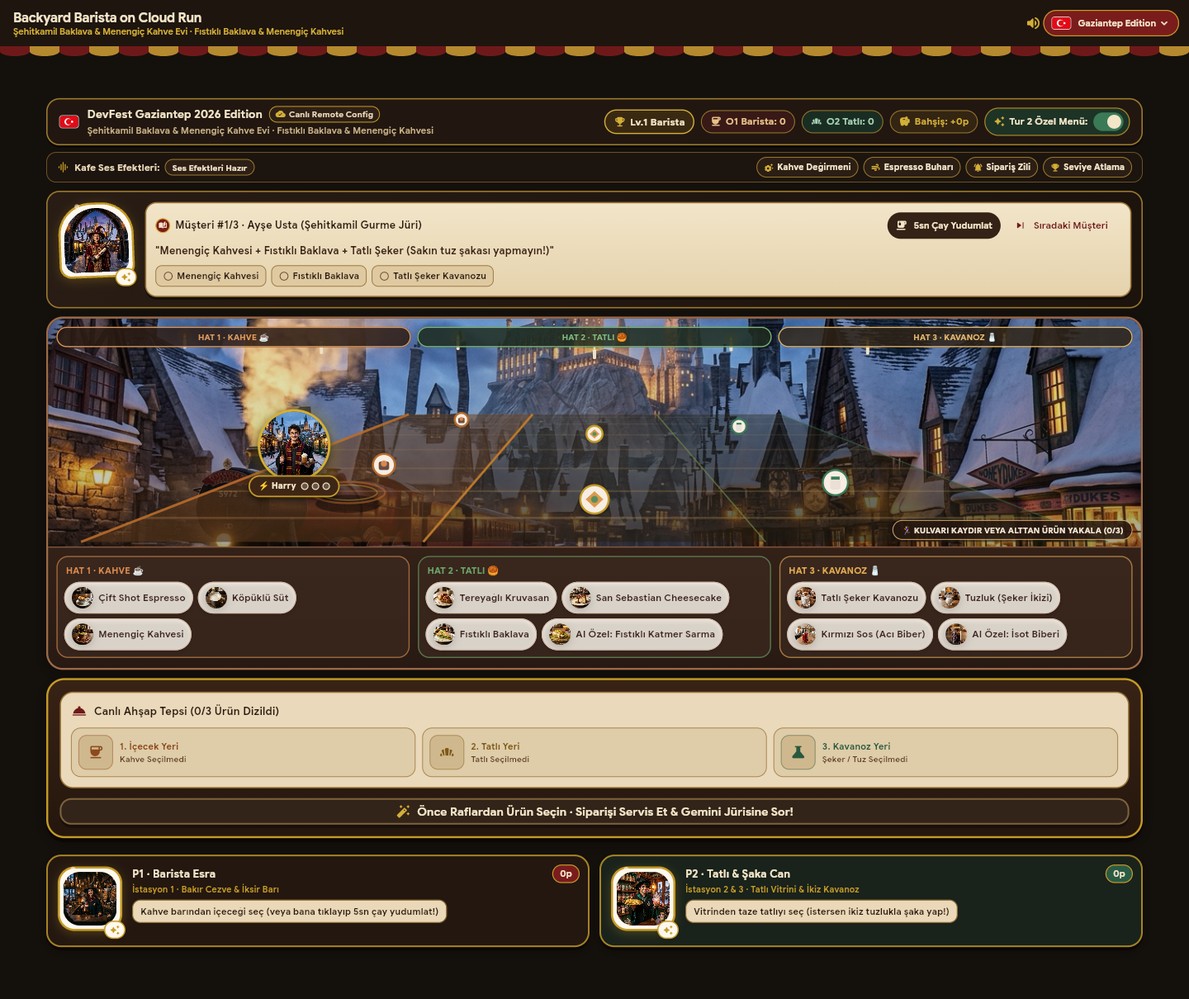
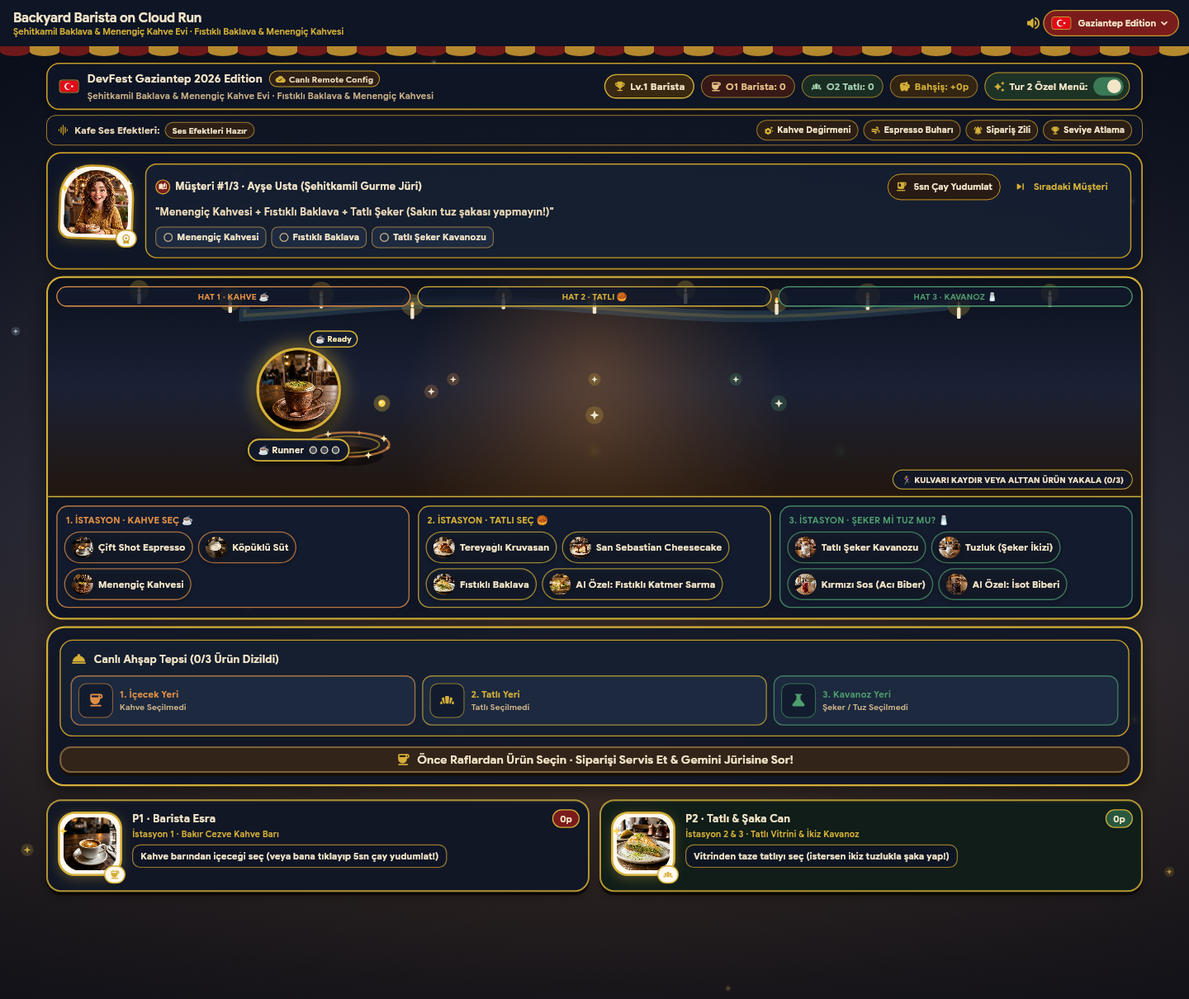
docs: fix stale counts, add the Berlin cue card and the Vibe Lounge note
CI step names carried test counts from October. README, landing page and
poster now say that Vibe Lounge participants follow Google's own guide.
step-3 names the real AI Studio flow (Publish) and who the Starter Tier
excludes, with sources. The runbook gets the real Berlin slot, the
mirror-has-no-key note, the full Wi-Fi-off command with the local judge,
and the 20:40 flight. The article shows the real Dockerfile. The README
screenshot shows the new neutral stage. docs/berlin-45-en.md is the
English 45-minute running order.

diff --git a/docs/visuals/src/arch.html b/docs/visuals/src/arch.html
@@ -17,7 +17,7 @@ body{margin:0;width:1600px;height:760px;background:#0E1824;font-family:GSF;color
 <div class="s" style="border-color:#FDD663"><b style="color:#FDD663">JSON · ~120 OUT</b><div>CafeReview</div><p>6 required schema fields</p></div><div class="a">→</div>
 <div class="s" style="border-color:#F28B82"><b style="color:#F28B82">UI REACTS</b><div>Face, stars, roast</div><p>or offline fallback in 250 ms</p></div>
 </div>
-<div class="layer" style="border-color:#8AB4F8"><div class="n"><small style="color:#8AB4F8">LAYER 1</small><div>Presentation</div></div><div class="chips"><span>Stack · AnimatedScale · CustomPaint</span><span>20 PNGs</span><span>5 Lottie</span><span>10 WAV</span><span>&lt;620px responsive</span></div><div class="o" style="color:#8AB4F8">0 game engines</div></div>
+<div class="layer" style="border-color:#8AB4F8"><div class="n"><small style="color:#8AB4F8">LAYER 1</small><div>Presentation</div></div><div class="chips"><span>Stack · AnimatedScale · CustomPaint</span><span>14 PNGs</span><span>5 Lottie</span><span>10 WAV</span><span>&lt;620px responsive</span></div><div class="o" style="color:#8AB4F8">0 game engines</div></div>
 <div class="layer" style="border-color:#FDD663"><div class="n"><small style="color:#FDD663">LAYER 2</small><div>Config</div></div><div class="chips"><span>1 · in-app override</span><span>2 · Remote Config active_city_id</span><span>3 · city_editions.json</span></div><div class="o" style="color:#FDD663">4 cities, 0 rebuilds</div></div>
 <div class="layer" style="border-color:#81C995"><div class="n"><small style="color:#81C995">LAYER 3</small><div>AI &amp; guardrails</div></div><div class="chips"><span>gemini-3.5-flash-lite</span><span>responseSchema</span><span>8 s timeout</span><span>mock_responses.json</span></div><div class="o" style="color:#81C995">≈ 270 tokens/order</div></div>
 <div class="layer" style="border-color:#F28B82"><div class="n"><small style="color:#F28B82">LAYER 4</small><div>Serverless cloud</div></div><div class="chips"><span>multi-stage Dockerfile</span><span>nginx:alpine :8080</span><span>Cloud Run *.run.app</span><span>GitHub</span></div><div class="o" style="color:#F28B82">0 server state</div></div>

diff --git a/docs/vibe-lounge-poster.html b/docs/vibe-lounge-poster.html
@@ -272,7 +272,7 @@
           <div>
             <div style="font-size:10.5px;color:#81C995;font-weight:800;text-transform:uppercase;">2. Starter Repo &amp; Copy-Paste Prompts</div>
             <div style="font-size:12.5px;font-weight:800;margin:3px 0;color:#F2F6FC;word-break:break-all;">github.com/esrakadah/devfest-2026-backyard-barista-cloudrun</div>
-            <div style="font-size:11px;color:#9EB1C9;">20 Studio PNGs · 10 Web Audio SFX · <code>prompts/step-1..3</code></div>
+            <div style="font-size:11px;color:#9EB1C9;">14 Studio PNGs · 10 Web Audio SFX · <code>prompts/step-1..3</code></div>
           </div>
         </div>
       </div>
@@ -283,7 +283,7 @@
       </div>
 
       <div class="arch-footer">
-        <strong>What We Built (4-Layer Production Cloud Architecture):</strong> Layer 1: Pure Flutter / HTML UI + 20 Studio PNGs, 5 Lottie &amp; 10 Web Audio API SFX · Layer 2: 3-Layer City Config (UI Override &gt; Firebase Remote Config <code>active_city_id</code> &gt; Local JSON) · Layer 3: Gemini <code>3.5-flash-lite</code> Structured JSON (<code>$0.0468 / 1k orders</code>) + <code>0.09 ms</code> Offline Fallback · Layer 4: Stateless Container on Google Cloud Run (<code>PORT=8080</code>) + GitHub
+        <strong>What We Built (4-Layer Production Cloud Architecture):</strong> Layer 1: Pure Flutter / HTML UI + 14 Studio PNGs, 5 Lottie &amp; 10 Web Audio API SFX · Layer 2: 3-Layer City Config (UI Override &gt; Firebase Remote Config <code>active_city_id</code> &gt; Local JSON) · Layer 3: Gemini <code>3.5-flash-lite</code> Structured JSON (<code>$0.0468 / 1k orders</code>) + <code>0.09 ms</code> Offline Fallback · Layer 4: Stateless Container on Google Cloud Run (<code>PORT=8080</code>) + GitHub
       </div>
     </div>
   </article>

diff --git a/slides/lib/slides/s_hybrid_asset_pipeline_slide.dart b/slides/lib/slides/s_hybrid_asset_pipeline_slide.dart
@@ -11,7 +11,7 @@ class HybridAssetPipelineSlide extends FlutterDeckSlideWidget {
             route: '/hybrid-asset-pipeline',
             title: '12. Hybrid Asset Pipeline: 14 Studio PNGs + On-the-Fly AI SVGs',
             speakerNotes:
-                'BEAT  [22:30 - 25:00] Hibrit Görsel Boru Hattı: 20 Hazır Stüdyo PNG + Yolda Üretilen AI Vektörleri.\n'
+                'BEAT  [22:30 - 25:00] Hibrit Görsel Boru Hattı: 14 Hazır Stüdyo PNG + Yolda Üretilen AI Vektörleri.\n'
                 'SAY   "Bir oyun atölyesinde en çok vakit kaybettiren şey görsel bulmak ve yüklemektir. Biz bunu hibrit bir boru hattıyla çözdük: 3 içecek, 3 tatlı, 3 şaka malzemesi ve 3 müşteri tepkisinden oluşan toplam 12 adet yüksek çözünürlüklü 1. Tur PNG görselini, 2 adet 2. Tur özel PNG görselini ve 6 adet 3D karakter portresini doğrudan GitHub repomuzun içinde hazır veriyoruz. Ardından 2. Turda herkes kendi özel imza tatlısını ve kendi şaka malzemesini Google AI Studio veya Antigravity ile anında CustomPaint vektör kodu olarak üretiyor. Sıfır dosya yükleme hatası, anında görsel sonuç!"\n'
                 'HOLD  Soldaki hazır PNG vitrinini ve sağdaki yolda üretilen CustomPaint vektör akışını göster. [Fact (flutter_client/assets/): 14 PNGs in assets/base/ (12 Round-1 + 2 Round-2), 5 Lottie JSONs in assets/animations/, 10 audio WAVs + Web Audio API synth in assets/audio/].\n'
                 'NEXT  "Şimdi bilgisayarlarımızı ve telefonlarımızı açıyoruz: 3 turluk canlı inşa maratonumuz başlıyor!"',

diff --git a/README.md b/README.md
@@ -5,9 +5,11 @@
 [![Gemini 3.5 Flash-Lite](https://img.shields.io/badge/Gemini-3.5_Flash--Lite-8E75B2?logo=googlegemini&logoColor=white)](https://ai.google.dev/)
 [![License: MIT](https://img.shields.io/badge/License-MIT-34A853.svg)](LICENSE)
 
-**DevFest 2026 Hands-On Workshop & Vibe Lounge Starter Repository**
+**DevFest 2026 Hands-On Workshop Starter Repository**
+
+> **Vibe Lounge note:** this repo is Esra's talk and workshop demo. In the DevFest Vibe Lounge you follow Google's official Backyard Barista guide instead (a coffee companion app); you do not need this repo there.
 - **Author:** Esra Kadah (Tech Lead, Senior Flutter & AI Engineer at Antigua Mobile Berlin · Flutter & Dart GDE)
-- **Live Cloud Run Reference App (`europe-west3` · 3D Characters + Lottie + 10 Web Audio SFX):** [https://backyard-barista-389486729482.europe-west3.run.app](https://backyard-barista-389486729482.europe-west3.run.app) (`devfest-backyard-barista-2026`)
+- **Live Cloud Run Reference App (`europe-west3` · Flame stage + Lottie + 10 Web Audio SFX):** [https://backyard-barista-389486729482.europe-west3.run.app](https://backyard-barista-389486729482.europe-west3.run.app) (`devfest-backyard-barista-2026`)
 - **Live Cloud Run Mirror (`europe-west1`):** [https://backyard-barista-870328613866.europe-west1.run.app](https://backyard-barista-870328613866.europe-west1.run.app) (`soundstage-dea29`)
 - **Technical Deep-Dive Article (Medium / `esra.tech`):** [`docs/articles/backyard-barista-cloud-run-medium.md`](docs/articles/backyard-barista-cloud-run-medium.md)
 - **City Editions Included:**
@@ -32,9 +34,9 @@ Right next to the **Sugar (`Şeker`)** jar sits a deceptive **Salt (`Tuz`)** sha
 
 ### Lane A: Zero-Install Browser Path (Google AI Studio Build Mode -> Cloud Run + GitHub)
 1. Open [Google AI Studio](https://aistudio.google.com) -> **Build** mode.
-2. Copy and paste [`prompts/step-1-base-cafe.md`](prompts/step-1-base-cafe.md) to generate the 2-player Cafe Counter with our 12 base menu items and the 4-City Edition switcher (`Berlin`, `Gaziantep`, `Adana`, `Istanbul`).
+2. Copy and paste [`prompts/step-1-base-cafe.md`](prompts/step-1-base-cafe.md) to generate the 2-player Cafe Counter with our 9 base menu items (3 drinks, 3 pastries, 3 jars), 3 customer faces and the 4-City Edition switcher (`Berlin`, `Gaziantep`, `Adana`, `Istanbul`).
 3. Copy and paste [`prompts/step-2-custom-dish.md`](prompts/step-2-custom-dish.md) to generate your own **Custom Signature Dish SVG** and **Custom Prank Ingredient SVG** on the fly, wired to the Gemini JSON customer judge.
-4. Follow [`prompts/step-3-deploy.md`](prompts/step-3-deploy.md) to click **Deploy to Cloud Run** (`.run.app`, no credit card required on AI Studio Starter Tier) and **Sync to GitHub**.
+4. Follow [`prompts/step-3-deploy.md`](prompts/step-3-deploy.md) to click **Publish** (`.run.app`, no credit card required on AI Studio Starter Tier) and **Sync to GitHub**.
 
 ### Lane B: Flutter + Gemini REST API (`package:http`) + Google Antigravity IDE -> Cloud Run + GitHub
 Before you start:
@@ -118,8 +120,7 @@ devfest-2026-backyard-barista-cloudrun/
     ├── assets/
     │   ├── animations/        # 5 ready-made Lottie JSON animations (coffee_steam_loop, barista_brewing_pulse, sweet_celebration_burst, salty_spicy_explosion, tea_sip_steam_loop)
     │   ├── audio/             # 10 cafe sound effects + Web Audio API synth (coffee_grinder, espresso_steam, serve_bell, level_up, tap_pop, stealth_wink, tea_sip, sweet_fanfare, salty_buzzer, next_chime)
-    │   ├── base/              # 20 studio 9D PNG cafe & 3D character assets (12 Round-1 base + 2 Round-2 custom + 6 3D characters, 512x512)
-    │   │   ├── characters/    # barista_p1.png, pastry_chef_p2.png, customer_ayse_usta.png, customer_mustafa.png, customer_lukas.png, customer_deniz.png
+    │   ├── base/              # 14 studio PNG cafe assets (12 Round-1 base + 2 Round-2 custom, 512x512)
     │   │   ├── drinks/        # espresso.png, milk.png, menengic_coffee.png
     │   │   ├── foods/         # croissant.png, san_sebastian.png, baklava.png, katmer_roll.png
     │   │   ├── toppings_pranks/ # sugar_jar.png, salt_shaker.png, chili_sauce.png, isot_pepper.png
@@ -155,10 +156,10 @@ devfest-2026-backyard-barista-cloudrun/
 
 ## Full Production Architecture ("En Son Mimaride Ne Yaptık?")
 
-1. **Layer 1 (Presentation & Hybrid Assets):** Pure Flutter Declarative Widgets (`Stack`, `AnimatedScale`, `AnimatedSwitcher`, `CustomPaint`) combining 20 pre-generated PNGs in `assets/base/` (`12` Round-1 base PNGs + `2` Round-2 custom PNGs + `6` 3D character portraits) with on-the-fly Antigravity/Gemini-generated `CustomVectorIngredientGraphic` vector artwork (`custom_svg_items.dart`), `5` Lottie JSON animations, and `10` synthesized WAV + Web Audio API audio cues.
+1. **Layer 1 (Presentation & Hybrid Assets):** Pure Flutter Declarative Widgets (`Stack`, `AnimatedScale`, `AnimatedSwitcher`, `CustomPaint`) combining 14 pre-generated PNGs in `assets/base/` (`12` Round-1 base PNGs + `2` Round-2 custom PNGs) with on-the-fly Antigravity/Gemini-generated `CustomVectorIngredientGraphic` vector artwork (`custom_svg_items.dart`), `5` Lottie JSON animations, and `10` synthesized WAV + Web Audio API audio cues.
 2. **Layer 2 (3-Layer Multi-City Configuration in `CityEditionController`):**
    - **Priority 1:** In-App Settings Switcher Override (`_manualOverrideCityId` via `city_settings_drawer.dart`)
    - **Priority 2:** Firebase Remote Config template / `--dart-define=DEFAULT_CITY` (`_remoteConfigCityId` via `remote_config_template.json`)
    - **Priority 3:** Bundled local fallback (`_fallbackCityId` from `assets/editions/city_editions.json`)
-3. **Layer 3 (AI & Guardrails):** Single-shot structured JSON output (`CafeReview`) evaluated by `gemini-3.5-flash-lite` over REST `generateContent` (`package:http` for zero-setup workshops; upgrade to `firebase_ai` + Firebase App Check in production) with an `8,000 ms` live timeout and a `250 ms` deterministic offline fallback (`mock_responses.json`).
+3. **Layer 3 (AI & Guardrails):** Single-shot structured JSON output (`CafeReview`) evaluated by `gemini-3.5-flash-lite` over REST `generateContent` (`package:http` for zero-setup workshops; upgrade to `firebase_ai` + Firebase App Check in production) with an `8,000 ms` live timeout, then an optional local Gemma 4 (`15 s` timeout, stage laptop only), then the bundled `mock_responses.json` (`250 ms` load timeout). Every model verdict must match the salt and chili flags decided in Dart, or the bundled verdict answers.
 4. **Layer 4 (Serverless Cloud & Source Control):** Stateless `nginx:alpine` container (`Dockerfile`, lines 1-25) deployed via `gcloud run deploy backyard-barista --source .` to **Google Cloud Run (`*.run.app`)** and synced to **GitHub**.

diff --git a/docs/stage-runbook.md b/docs/stage-runbook.md
@@ -4,10 +4,12 @@ Bu doküman sahnedeki teknik delivery'nin tek kontrol listesidir: ne zaman ne ko
 
 | Etkinlik | Tarih | Dil | Format |
 |---|---|---|---|
-| DevFest Berlin | 14 Kasım 2026 | EN | 2 x 45 dk Vibe Lounge |
+| DevFest Berlin | 14 Kasım 2026 | EN | 10:00 Room 2, 45 dk konuşma ([İngilizce akış kartı](berlin-45-en.md)), sonra 11:00-15:00 Vibe Lounge (katılımcılar Google'ın resmi Barista rehberini izler) |
 | DevFest Gaziantep | 15 Kasım 2026 | TR | 80 dk atölye veya 2 x 45 dk Vibe Lounge |
 | DevFest Adana | 11 Aralık 2026 | TR | 30+10 dk ana salon |
 | DevFest İstanbul | 19 Aralık 2026 | TR | 30+10 dk ana salon |
+
+Berlin günü akşamı Gaziantep uçuşu 20:40: Vibe Lounge 15:00'te biter, havalimanı için zamanında çık. Laptopu, USB'deki PDF yedeğini ve NFC etiketlerini el bagajına koy.
 
 ---
 
@@ -42,6 +44,7 @@ Bu doküman sahnedeki teknik delivery'nin tek kontrol listesidir: ne zaman ne ko
    curl -s -o /dev/null -w '%{http_code}\n' https://backyard-barista-389486729482.europe-west3.run.app
    curl -s -o /dev/null -w '%{http_code}\n' https://backyard-barista-870328613866.europe-west1.run.app
    ```
+   `europe-west1` aynasında Gemini anahtarı yok: `200` döner ama kararlar paketlenmiş cevaplardan gelir. Gemini'ı sahnede sadece `europe-west3` üzerinde göster.
 6. **Yerel Gemma jürisi (sadece Ollama'lı laptopta):** model indirilmiş olmalı (`ollama list` içinde `gemma4:12b-it-qat`, 7.2 GB). Yoksa evde, hızlı ağda `ollama pull gemma4:12b-it-qat`; salon Wi-Fi'ında indirme. Sonra bir prova turu:
    ```bash
    cd flutter_client
@@ -53,7 +56,7 @@ Bu doküman sahnedeki teknik delivery'nin tek kontrol listesidir: ne zaman ne ko
 ## T-2 saat: Salon Kurulumu
 
 - Projektör çözünürlüğünü öğren. Deck 1920x1080 mantıksal kanvasta tasarlandı ve her ekrana ölçeklenir; 4:3 projektörde üst ve altta siyah bant olur, içerik kaybolmaz.
-- Sahne laptopunda: deck (`flutter run -d chrome` veya `build/web`), canlı oyun sekmesi, `ai_studio_lane_a/index.html` (49.5 KB, çevrimdışı açılır) ve PDF yedeği açık olsun.
+- Sahne laptopunda: deck (`flutter run -d chrome` veya `build/web`), canlı oyun sekmesi, `ai_studio_lane_a/index.html` (49.5 KB) ve PDF yedeği açık olsun. Lane A dosyasını reponun içinden aç: görselleri `../flutter_client/assets/` yolundan okur, tek başına kopyalanırsa görseller internetten gelir.
 - Telefon hotspot'unu hazırla; salon Wi-Fi'ına güvenme.
 - Kendi Gemini anahtarını **sadece yerel** çalıştırmada kullan. Asla `--dart-define=GEMINI_API_KEY` ile public bir web build'i Cloud Run'a deploy etme: dart-define değerleri tarayıcının indirdiği JavaScript'e gömülür.
 - Ödülleri (piksel gözlükler, Dash) sahneye koy; slayt 3'te gösterilecek.
@@ -94,7 +97,7 @@ Etkinlikten sonra varsayılana dön: `launchctl unsetenv OLLAMA_KEEP_ALIVE`, ard
 
 ## Sahnede: 5 Perdelik Akış
 
-| Perde | Slaytlar | 80 dk atölye | 45 dk Vibe Lounge | 30 dk ana salon |
+| Perde | Slaytlar | 80 dk atölye | 45 dk konuşma (Berlin, [akış kartı](berlin-45-en.md)) | 30 dk ana salon |
 |---|---|---|---|---|
 | 1 · Hook | 1-3 | 00:00-05:00 | 4 dk | 3 dk |
 | 2 · Tools | 4-6 | 05:00-11:30 | 4 dk | 4 dk |
@@ -108,13 +111,13 @@ Her slaytın sağ üstündeki hikaye şeridi salona nerede olduğumuzu gösterir
 
 | Belirti | Sahnede yapılacak | Komut veya eylem |
 |---|---|---|
-| Wi-Fi tamamen koptu | Slayt 16 (`/demo-hiccup`), "tam da bunun için tasarladık" | `flutter run -d chrome --dart-define=OFFLINE_MODE=true` |
+| Wi-Fi tamamen koptu | Slayt 16 (`/demo-hiccup`), "tam da bunun için tasarladık" | `flutter run -d chrome --dart-define=DEFAULT_CITY=gaziantep --dart-define=OFFLINE_MODE=true --dart-define=LOCAL_JUDGE_URL=http://localhost:11434/api/chat` (karar Gemma'dan, o da yoksa paketten) |
 | Yerel jüri yavaş veya `localGemma` gelmiyor | Paketlenmiş cevaplar devrede, oyun durmaz | `lsof -nP -iTCP:11434` ile Ollama'yı tutan süreci bul, `ollama ps` ile model yüklü mü bak, T-10 adım 3'ü tekrarla |
 | HTTP 429 | Slayt 9'a atıf, uygulama zaten çevrimdışı jüriye düştü | Eylem gerekmez |
 | Deck çöktü veya laptop dondu | PDF yedeğine geç | `build/slides/backyard_barista_deck.pdf` |
 | AI Studio yavaş | Lane A referans oyununu aç (`49.5 KB`, 3 yuvalı tepsi + 3 müşteri kuyruğu) | `ai_studio_lane_a/index.html` |
 | Katılımcı geride kaldı | Bir sonraki kontrol noktasına atla, eski turu bitirmeye çalışma | `prompts/step-N-*.md` veya `git checkout step-N` (veya `Tur 2 Özel Menü: ON`) |
-| Lane B deploy fatura istiyor | Bugün için Lane A deploy'una yönlendir | AI Studio'da "Deploy to Cloud Run" |
+| Lane B deploy fatura istiyor | Bugün için Lane A deploy'una yönlendir | AI Studio'da "Publish" |
 
 ## Sonrası
 

diff --git a/docs/berlin-45-en.md b/docs/berlin-45-en.md
@@ -1,0 +1,38 @@
+# Berlin cue card: 45 minutes in English
+
+DevFest Berlin, Sat 14 Nov 2026, 10:00, Room 2, SRH Berlin. The Vibe Lounge sprints follow at 11:00-15:00, where people build Google's official Backyard Barista guide, not this game. Today the game is the stage demo, nobody in the room builds along.
+
+The speaker notes in the deck stay the Turkish 80-minute Gaziantep script. Use this card for Berlin: same slides, English lines, a 45-minute clock. Stage Navigator (deck menu) jumps to any section.
+
+## Running order
+
+| Clock | Slide | Do | One English line |
+|---|---|---|---|
+| 00:00 | 1 `/title` | Intro, GDE line | "I'm Esra, Flutter and AI engineer at Antigua Mobile and a Flutter and Dart GDE. My views today, not Google's. We ship an AI cafe game to Cloud Run and talk real numbers." |
+| 02:00 | 2 `/sweet-or-salty` | Poll: hands for A, hands for B | "Which one is sugar? Hold that thought: an AI is going to judge exactly this." Answer: A sugar, B salt. |
+| 04:00 | 3 `/workshop-contract` | **Skip** | Say instead: "If you want to build your own, the Vibe Lounge opens at 11 with Google's Backyard Barista guide." |
+| 04:00 | 4 `/ai-studio-pipeline` | | "One prompt in AI Studio Build mode gives you a deployable app. Here is what actually comes out." |
+| 07:00 | 5 `/meet-antigravity` | | "Antigravity edits many files at once and draws new ingredients as vectors, no designer in the loop." |
+| 09:30 | 6 `/pure-flutter-widgets` | | "Flame runs the 60 fps stage, plain Flutter widgets run the counter. Each does what it is good at." |
+| 12:00 | 7 `/real-numbers-latency` | Point at the measured line | "Gemini answers in 1.0 to 1.8 seconds, measured on 11 November. A local Gemma 4 on this laptop takes 5 to 8.4 seconds. The 8 and 15 second limits are code, not hopes." |
+| 15:00 | 8 `/real-numbers-cost` | | "A thousand verdicts cost cents. The trap is not price, it is which model your account may call." |
+| 17:30 | 9 `/room-quota-trap` | | "Three hundred people on one key is an HTTP 429 waiting to happen. So the key sits behind a rate-limited proxy, and every failure lands on the bundled roasts." |
+| 20:00 | 10 `/multi-city-remote-config` | | "One build, four cities: Remote Config picks Berlin, Gaziantep, Adana or Istanbul, the in-app switcher wins on stage." |
+| 22:00 | 11 `/salt-sugar-mechanic` | | "The model writes the joke. Whether there is salt on the tray is decided in Dart, so a salt tray can never get five stars." |
+| 24:00 | **Live demo** in the game tab | Sweet tray, then salt tray, then Wi-Fi off and serve again | "Same tray, no Wi-Fi: the verdict now comes from the laptop. The badge under the card says which judge answered." |
+| 32:00 | 12 `/hybrid-asset-pipeline` | **First cut if late** | "Fourteen studio PNGs ship in the repo, round-two ingredients are drawn on the fly." |
+| 34:00 | 14 `/architecture-recap` | Skip 13 `/live-build-dashboard` | "Four layers: Flutter and Flame, Remote Config, the judge chain Gemini then Gemma then bundle, and a stateless Cloud Run container." |
+| 37:00 | 15 `/winner-podium-closing` | No podium in Berlin: point at the QR codes and the badge link | "If you remember one sentence: let the model write the joke, let your code keep the score." |
+| 40:00 | Q&A | Backup slide `/demo-hiccup` answers "what if the network dies" | |
+| 45:00 | End | Walk to the Vibe Lounge | |
+
+## If something breaks
+
+- Wi-Fi gone: jump to `/demo-hiccup`, run the game with `OFFLINE_MODE=true` and `LOCAL_JUDGE_URL` (full command in [`stage-runbook.md`](stage-runbook.md)). Warm Gemma first, ten minutes before 10:00.
+- Running late at 32:00: skip slide 12 and go straight to the recap.
+- Deck frozen: the PDF backup `slides/build/slides/backyard_barista_deck.pdf`.
+
+## The day around it
+
+- Mirror `europe-west1` has no Gemini key and only serves bundled roasts; demo Gemini on `europe-west3`.
+- Flight to Gaziantep is the night of the 14th, 20:40; leave the venue with time for the airport.

diff --git a/docs/challenge-landing-page.md b/docs/challenge-landing-page.md
@@ -7,6 +7,8 @@
 - **Starter GitHub Repository:** https://github.com/esrakadah/devfest-2026-backyard-barista-cloudrun
 - **Official Vibe Lounge Badge:** https://goo.gle/devfest26-vibe-lounge
 
+> **Vibe Lounge note:** this repo is Esra's talk and workshop demo. In the DevFest Vibe Lounge you follow Google's official Backyard Barista guide instead (a coffee companion app); you do not need this repo there.
+
 ---
 
 ## 🇹🇷 Türkçe Sürüm (Gaziantep 15 Kasım · Adana 11 Aralık · İstanbul 19 Aralık)
@@ -29,7 +31,7 @@ Hoş geldin! Bugün klavyeyle uzun mesajlar yazılan klasik bir sohbet botu değ
 2. **JSON Kafe Eleştirmeni (`CafeReview`):** Oyuncu 3 yuvalı ahşap tepsiyi (`1. İçecek + 2. Tatlı + 3. Kavanoz`) dizip **"Siparişi Servis Et!"** butonuna bastığında `gemini-3.5-flash-lite` seçilen malzemeleri kontrol etsin; eğer tatlı siparişe **Tuz** veya **İsot** karıştıysa `1/5 · Tuzlu Sabotaj 🧂`, eksik istasyon varsa `3/5 · Eksik Tepsi 🧩`, 3 istasyon da tatlıysa `5/5 · Tatlı Mükemmellik ✨` ve `+40` bahşiş döndürsün!
 
 #### Seviye 3: Google Cloud Run (`.run.app`) ve GitHub'da Canlıya Al! (3. Tur · 10 Dakika)
-1. [`prompts/step-3-deploy.md`](../prompts/step-3-deploy.md) adımlarını izleyerek AI Studio sağ üst köşedeki **Deploy to Cloud Run** butonuna bas (kredi kartsız Starter Tier) veya Flutter'da `gcloud run deploy backyard-barista --source .` çalıştırarak `.run.app` canlı oyun linkini oluştur.
+1. [`prompts/step-3-deploy.md`](../prompts/step-3-deploy.md) adımlarını izleyerek AI Studio sağ üst köşedeki **Publish** butonuna bas (kredi kartsız Starter Tier) veya Flutter'da `gcloud run deploy backyard-barista --source .` çalıştırarak `.run.app` canlı oyun linkini oluştur.
 2. **Sync to GitHub** ile kodu kendi GitHub hesabına gönder ve sahnede 60 saniyelik demoya katıl!
 
 ---
@@ -49,4 +51,4 @@ Hoş geldin! Bugün klavyeyle uzun mesajlar yazılan klasik bir sohbet botu değ
 2. **Level 2 (Custom AI Dish + Gemini Structured JSON Salt-vs-Sugar Judge · 15 Min):**
    - Paste [`prompts/step-2-custom-dish.md`](../prompts/step-2-custom-dish.md) to generate your own custom signature pastry and stealth prank condiment, wired to `gemini-3.5-flash-lite` structured JSON (`CafeReview`).
 3. **Level 3 (Deploy to Google Cloud Run `.run.app` & Sync to GitHub · 10 Min):**
-   - Follow [`prompts/step-3-deploy.md`](../prompts/step-3-deploy.md) to click **Deploy to Cloud Run** (no credit card required on AI Studio Starter Tier) or run `gcloud run deploy backyard-barista --source .`, then demo your live `.run.app` URL on stage!
+   - Follow [`prompts/step-3-deploy.md`](../prompts/step-3-deploy.md) to click **Publish** (no credit card required on AI Studio Starter Tier) or run `gcloud run deploy backyard-barista --source .`, then demo your live `.run.app` URL on stage!

diff --git a/docs/articles/backyard-barista-cloud-run-medium.md b/docs/articles/backyard-barista-cloud-run-medium.md
@@ -134,7 +134,7 @@ In [`flutter_client/lib/services/sound_player_web.dart`](../../flutter_client/li
 
 ## 5. Multi-Stage Cloud Run Container (`nginx:alpine` on Port 8080)
 
-To keep cold starts tiny and static asset delivery fast, [`flutter_client/Dockerfile`](../../flutter_client/Dockerfile) compiles the Flutter Web bundle with `--no-web-resources-cdn` (bundling `GoogleSans` and all 20 studio PNGs locally so no external font CDN can block rendering on slow venue Wi-Fi) and serves it from a stateless `nginx:alpine` image on port `8080`:
+To keep cold starts tiny and static asset delivery fast, [`flutter_client/Dockerfile`](../../flutter_client/Dockerfile) compiles the Flutter Web bundle with `--no-web-resources-cdn` (bundling `GoogleSans` and all 14 studio PNGs locally so no external font CDN can block rendering on slow venue Wi-Fi) and serves it from a stateless `nginx:alpine` image on port `8080`:
 
 ```dockerfile
 FROM ghcr.io/cirruslabs/flutter:stable AS build
@@ -148,11 +148,16 @@ RUN flutter pub get && \
     flutter build web --release \
       --no-web-resources-cdn \
       --dart-define=DEFAULT_CITY=${DEFAULT_CITY} \
-      --dart-define=GEMINI_MODEL=${GEMINI_MODEL}
+      --dart-define=GEMINI_MODEL=${GEMINI_MODEL} \
+      --dart-define=GEMINI_PROXY_PATH=/api/gemini/generate
 
 FROM nginx:alpine
+ARG GEMINI_MODEL=gemini-3.5-flash-lite
+ENV GEMINI_MODEL=${GEMINI_MODEL}
+ENV GEMINI_RATE_LIMIT=10r/s
 COPY --from=build /app/build/web /usr/share/nginx/html
-RUN printf 'server {\n  listen 8080;\n  server_name _;\n  root /usr/share/nginx/html;\n  index index.html;\n  location / {\n    try_files $uri $uri/ /index.html;\n  }\n}\n' > /etc/nginx/conf.d/default.conf
+COPY nginx/default.conf.template /etc/nginx/templates/default.conf.template
+COPY nginx/15-gemini-key.envsh /docker-entrypoint.d/15-gemini-key.envsh
 EXPOSE 8080
 CMD ["nginx", "-g", "daemon off;"]
 ```

diff --git a/prompts/step-3-deploy.md b/prompts/step-3-deploy.md
@@ -1,7 +1,9 @@
 # Round 3 Guide: Publish to Google Cloud Run (`.run.app`) & GitHub
 
 ## Path A: From Google AI Studio Build Mode (No Credit Card Required)
-1. Click **"Deploy to Cloud Run"** in the top-right bar of Google AI Studio.
+> The AI Studio Starter Tier needs no payment method, but it is for personal Google accounts: Workspace accounts (work, school, nonprofit) and accounts that have or had a paid Cloud billing account may not qualify, and it allows 2 published apps. Use a personal Gmail account today. Source: [Starter Tier explained](https://cloud.google.com/blog/topics/developers-practitioners/the-starter-tier-for-google-ai-studio-explained), [Publish from AI Studio](https://aistudio.google.com/docs/aistudio-deploying).
+
+1. Click **Publish** in the top-right bar of Build mode, then **Get started** and **Publish your app** (the app is served from Cloud Run).
    - AI Studio Starter Tier provisions a managed HTTPS `https://*.run.app` service and stores your `GEMINI_API_KEY` server-side.
 2. Click **"Sync to GitHub"** in the top-right bar of Google AI Studio to push your complete web game to your personal GitHub account.
 3. Open your live `.run.app` URL on your phone, switch the City Edition to **Gaziantep 🇹🇷** (or **Berlin 🇩🇪**), sneak **Salt (`Tuz`)** into a Baklava + Espresso order, and raise your hand to demo on stage for the **Google Pixel Sunglasses + Dash** prize!

diff --git a/docs/speaker-drill-cards-tr.md b/docs/speaker-drill-cards-tr.md
@@ -1,7 +1,7 @@
 # Sahne Prova Kartları (Drills 1-4): Backyard Barista on Cloud Run
 
 - **Etkinlik Takvimi:**
-  - **🇩🇪 DevFest Berlin:** 14 Kasım 2026 (`EN` · 2 x 45 dk Vibe Lounge)
+  - **🇩🇪 DevFest Berlin:** 14 Kasım 2026 (`EN` · 10:00 Room 2, 45 dk konuşma, akış: [`berlin-45-en.md`](berlin-45-en.md); ardından 11:00-15:00 Vibe Lounge)
   - **🇹🇷 DevFest Gaziantep:** 15 Kasım 2026 (`TR` · 80 dk Tam Atölye veya 2 x 45 dk Vibe Lounge)
   - **🇹🇷 DevFest Adana:** 11 Aralık 2026 (`TR`)
   - **🇹🇷 DevFest İstanbul:** 19 Aralık 2026 (`TR`)
